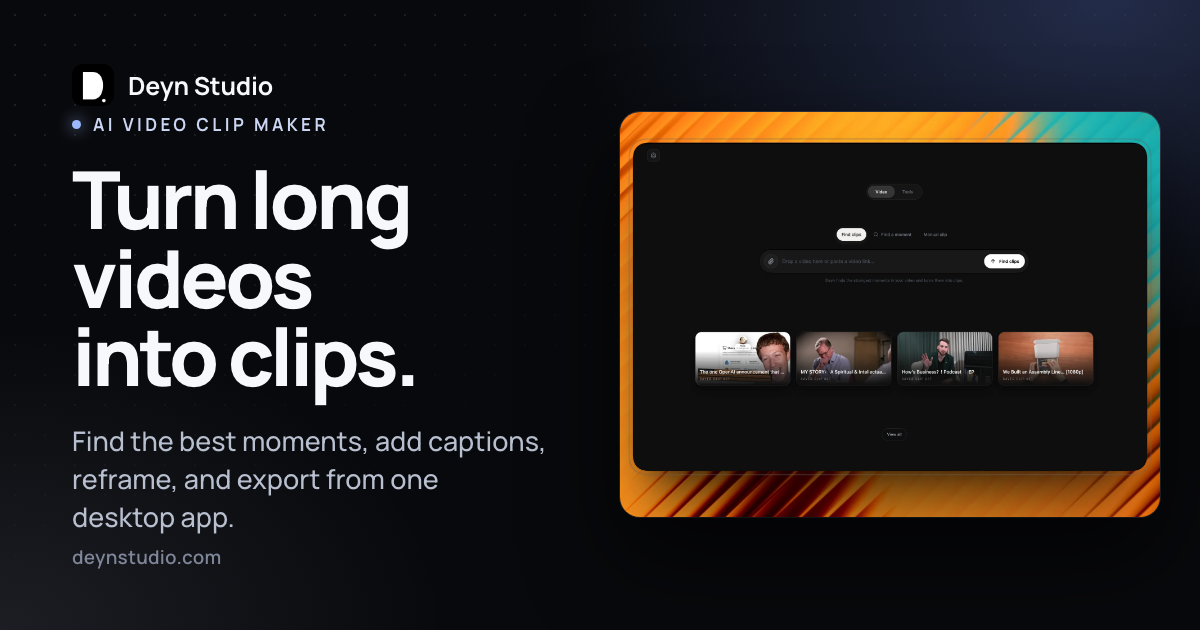
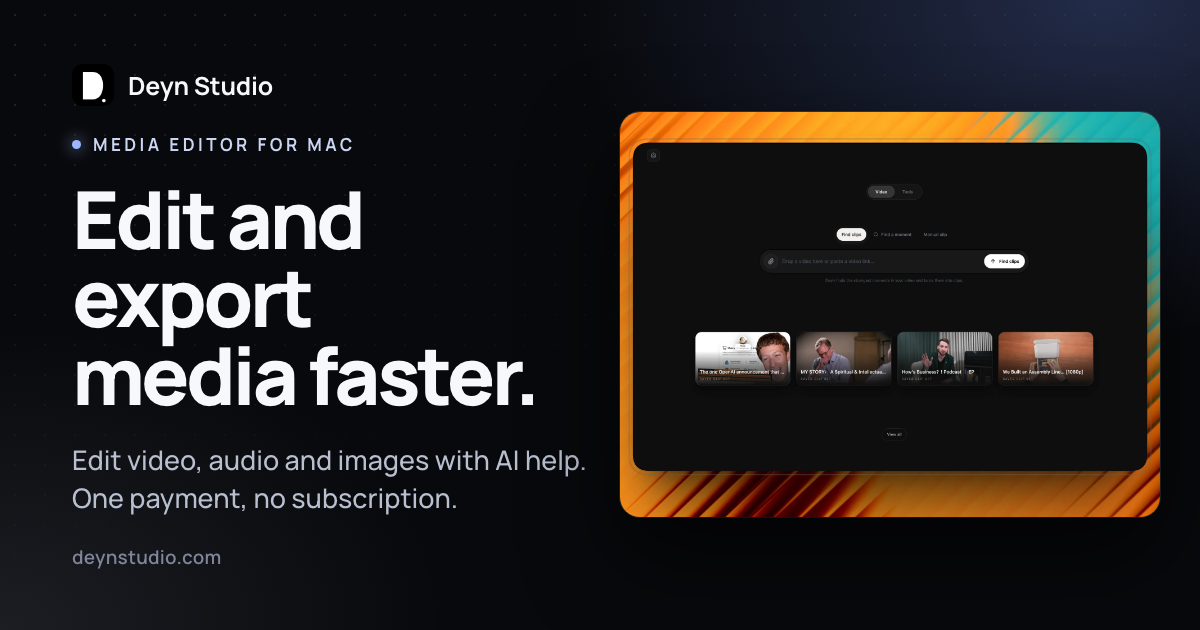
Position landing page as a media editor
Replace clip-maker framing with media editor positioning across the hero,
product story, pricing, WhyUs, FAQ, page metadata, structured data and the
default social card. Copy is shorter and leads with the outcome.

Changed region(s): [[0.0617, 0.2714, 0.4317, 0.6635], [0.0617, 0.6937, 0.4933, 0.8444], [0.0617, 0.181, 0.3083, 0.2413]]

diff --git a/app/(frontend)/page.js b/app/(frontend)/page.js
@@ -14,8 +14,8 @@ import { LIFETIME_LICENSE_PRICE_EUR, LIFETIME_LICENSE_PRICE_LABEL } from '@/lib/
 import { getDownloadUrls } from '@/lib/downloads'
 
 export const metadata = createPageMetadata({
-  title: 'AI Video Clip Maker for Desktop',
-  description: `Turn long videos into clips with Deyn Studio. Find the best moments, add captions, reframe, and export from one desktop app. ${LIFETIME_LICENSE_PRICE_LABEL} once, no subscription.`,
+  title: 'Media Editor for Mac',
+  description: `Edit, caption, convert and export video, audio and images in one Mac app. AI finds the best moments. ${LIFETIME_LICENSE_PRICE_LABEL} once, no subscription.`,
   path: '/',
   absoluteTitle: true
 })
@@ -36,7 +36,7 @@ function MarketingPage({ downloadUrls, isSignedIn }) {
             image: new URL(defaultSocialImage.url, siteOrigin).toString(),
             applicationCategory: 'MultimediaApplication',
             operatingSystem: 'macOS',
-            description: 'A desktop app for finding moments in long videos, editing captions and framing, and exporting shareable clips.',
+            description: 'A desktop media editor for video, audio and images, with AI for captions, clip suggestions and conversions.',
             creator: { '@id': `${siteOrigin}/#organization` },
             offers: {
               '@type': 'Offer',
@@ -80,9 +80,9 @@ function MarketingPage({ downloadUrls, isSignedIn }) {
               <s aria-label="Regular price €69" className="text-[24px] font-medium leading-none tracking-[-.04em] text-[#b0a0a1] decoration-white decoration-[0.5px] max-[600px]:text-[21px]">€69</s>
               <span className="rounded-full bg-[#8e9b7a]/[0.14] px-2.5 py-1 text-[12px] font-semibold tracking-[.01em] text-[#c9d5b8]">58% off</span>
             </div>
-            <p className="mx-auto mb-0 mt-3 max-w-[400px] text-balance text-[14px] leading-[1.6] text-[#c1c3cc]">Find moments, edit captions, and export from one desktop app.</p>
+            <p className="mx-auto mb-0 mt-3 max-w-[400px] text-balance text-[14px] leading-[1.6] text-[#c1c3cc]">Edit, caption, convert and export media from one desktop app.</p>
             <ul className="mx-auto mb-0 mt-6 grid w-fit list-none gap-3 p-0 text-left text-[14px] text-[#ececf0] max-[600px]:gap-2.5 max-[600px]:text-[13px]">
-              {['Find and edit clips from long videos', 'Caption and reframe each clip', 'Spot Assistant: download, compress, convert and caption from any app', 'Transcribe on your device', 'Future desktop updates included'].map((benefit) => <li className="flex items-center gap-3" key={benefit}><span className="text-[15px] text-[#c6c9d2]" aria-hidden="true">✓</span>{benefit}</li>)}
+              {['Edit video with captions, framing and export', 'Convert and compress video, audio and images', 'Spot Assistant: download, compress, convert and caption from any app', 'Transcribe on your device', 'Future desktop updates included'].map((benefit) => <li className="flex items-center gap-3" key={benefit}><span className="text-[15px] text-[#c6c9d2]" aria-hidden="true">✓</span>{benefit}</li>)}
             </ul>
             {/* DECISION: the "limited AI trial" disclosure moved out of this card into the FAQ ("What does the AI trial include?"). Put it back here if you want it next to the buy button. */}
             <p className="mx-auto mb-0 mt-5 max-w-[440px] text-[12px] leading-[1.6] text-[#aaa9a3]">No subscription. Pay for AI only when you use it, with your own OpenRouter key. Local transcription is always free.</p>

diff --git a/app/(frontend)/components/HeroSpiral.js b/app/(frontend)/components/HeroSpiral.js
@@ -25,7 +25,7 @@ const DEMO_VIDEO_SRC = `${DEMO_VIDEO_ORIGIN}/embed/7rs6y-qcOlA?enablejsapi=1&aut
 const demoVideoCommand = (func) => JSON.stringify({ event: 'command', func, args: '' })
 
 const uniqueCardAssets = [
-  { src: '/card-media/se-15.webp', type: 'image', label: 'Clip video' },
+  { src: '/card-media/se-15.webp', type: 'image', label: 'Edit video' },
   { src: '/card-media/se-2.webp', type: 'image', label: 'Convert image' },
   { src: '/card-media/se-16.mp4', poster: '/card-media/se-16-poster.webp', type: 'video', label: 'Compress video' },
   { src: '/card-media/se-3.webp', type: 'image', label: 'Compress image' },
@@ -94,7 +94,7 @@ const CARD_FADE_END = 0.68
 // One headline, on purpose: the first of the old rotation was the only one that said something specific.
 // Add more lines here and the rotation starts again by itself.
 const heroHeadlines = [
-  'Stop scrubbing. Find your next clip.',
+  'Edit and export media faster.',
 ]
 
 const publishHeroIslandState = (active) => {
@@ -1060,7 +1060,7 @@ export function HeroSpiral({ downloadUrls }) {
         <div className={styles.vignette} aria-hidden="true" />
         <div ref={lowerMaskRef} className={styles.lowerMask} aria-hidden="true" />
         <div ref={scrollPromptRef} className={styles.scrollPrompt}>
-          <p className={styles.downloadEyebrow}>A video clip maker you pay for once.</p>
+          <p className={styles.downloadEyebrow}>A media editor you pay for once.</p>
           <h1 className={styles.headingContainer}>
             <span className={styles.downloadHeading}>
               {previousHeadlineIndex !== null && (
@@ -1096,10 +1096,10 @@ export function HeroSpiral({ downloadUrls }) {
               </span>
             </span>
           </h1>
-          <p className={styles.mobileDescription}>Deyn finds the moments worth posting, captions them, and frames them for vertical.</p>
+          <p className={styles.mobileDescription}>Edit video, add captions, reframe for vertical, and let AI do the first pass.</p>
           <DownloadOptionsButton intelUrl={downloadUrls.intel} siliconUrl={downloadUrls.silicon} className={styles.downloadButton}>
             <MacIcon />
-            Download
+            Get Deyn Studio
           </DownloadOptionsButton>
           <p className={styles.mobilePlatforms}>One-time, no subscription. For macOS.</p>
           <p className={styles.keepScrolling}>See how it works <span aria-hidden="true">↓</span></p>
@@ -1124,8 +1124,8 @@ export function HeroSpiral({ downloadUrls }) {
           <div className={`${styles.videoContent} ${isVideoPlaying ? styles.videoContentPlaying : ''}`}>
             <div ref={videoPromptRef} className={styles.videoHeading}>
               <p>Deyn Studio in action</p>
-              <h2>Watch Deyn turn a long video<br className={styles.desktopBreak} /> into clips ready to share.</h2>
-              <p className={styles.videoDescription}>See Deyn find moments, add captions, and frame clips for social.</p>
+              <h2>Watch a file go<br className={styles.desktopBreak} /> from import to export.</h2>
+              <p className={styles.videoDescription}>Edit the transcript, add captions, frame for vertical, and export without switching apps.</p>
             </div>
             <div ref={playPromptRef} className={styles.playPrompt}>
               <button

diff --git a/app/(frontend)/layout.js b/app/(frontend)/layout.js
@@ -27,10 +27,10 @@ export const metadata = {
   },
   manifest: '/favicon/site.webmanifest',
   title: {
-    default: 'AI Video Clip Maker for Desktop | Deyn Studio',
+    default: 'Media Editor for Mac | Deyn Studio',
     template: '%s | Deyn Studio'
   },
-  description: 'Turn long videos into shareable clips with Deyn Studio. Find standout moments with AI, then add captions, reframe, and export from one desktop app.',
+  description: 'Edit video, audio and images in one Mac app. Add captions, convert and compress files, and let AI find the best moments. Pay once, no subscription.',
   creator: 'Deyn Studio',
   publisher: 'Deyn Studio',
   openGraph: {
@@ -38,14 +38,14 @@ export const metadata = {
     url: '/',
     siteName: 'Deyn Studio',
     locale: 'en_US',
-    title: 'AI Video Clip Maker for Desktop | Deyn Studio',
-    description: 'Turn long videos into shareable clips with Deyn Studio. Find standout moments with AI, then add captions, reframe, and export from one desktop app.',
+    title: 'Media Editor for Mac | Deyn Studio',
+    description: 'Edit video, audio and images in one Mac app. Add captions, convert and compress files, and let AI find the best moments. Pay once, no subscription.',
     images: [defaultSocialImage]
   },
   twitter: {
     card: 'summary_large_image',
-    title: 'AI Video Clip Maker for Desktop | Deyn Studio',
-    description: 'Turn long videos into shareable clips with Deyn Studio. Find standout moments with AI, then add captions, reframe, and export from one desktop app.',
+    title: 'Media Editor for Mac | Deyn Studio',
+    description: 'Edit video, audio and images in one Mac app. Add captions, convert and compress files, and let AI find the best moments. Pay once, no subscription.',
     images: [defaultSocialImage.url]
   },
   robots: {
@@ -103,7 +103,7 @@ export default function RootLayout({ children }) {
                   '@id': `${siteOrigin}/#website`,
                   name: 'Deyn Studio',
                   url: siteOrigin,
-                  description: 'Desktop software for finding moments in long videos, editing captions and framing, and exporting clips.',
+                  description: 'Desktop media editor for video, audio and images, with AI for captions, clip suggestions and conversions.',
                   publisher: { '@id': `${siteOrigin}/#organization` },
                   inLanguage: 'en'
                 }

diff --git a/app/(frontend)/components/ProductStory.js b/app/(frontend)/components/ProductStory.js
@@ -7,20 +7,20 @@ import styles from './ProductStory.module.css'
 const stories = [
   {
     number: '01',
-    title: 'Drop in a long video',
-    description: 'Import a file or paste a supported public link. Let Deyn suggest clips, search for a moment, or pick the cut yourself.',
+    title: 'Bring in your media',
+    description: 'Import a video, audio file or image, or paste a supported public link to start editing.',
 
     image: '/app-shots/home-p.webp',
     imageBackground: '13 13 13',
-    alt: 'Deyn Studio home screen with a video ready and saved clip sets'
+    alt: 'Deyn Studio home screen with a video ready to edit'
   },
   {
     number: '02',
-    title: 'Skip the scrubbing',
-    description: 'AI reads the transcript and suggests clips with titles and timing. Keep the ones you like, drop the rest.',
+    title: 'Let AI do the first pass',
+    description: 'AI reads the transcript, suggests the moments worth keeping, and adds titles and timing. Keep what you like, drop the rest.',
     image: '/app-shots/clips-p.webp',
     imageBackground: '43 34 117',
-    alt: 'A grid of clips generated from a video in Deyn Studio'
+    alt: 'AI-suggested clips from a video in Deyn Studio'
   },
   {
     number: '03',
@@ -185,7 +185,7 @@ export function ProductStory() {
     >
       <div className="relative z-10 mx-auto w-full max-w-[1420px]">
         <h2 id="product-story-heading" className="relative z-30 mx-auto section-title-gap max-w-[640px] text-balance text-center font-serif section-title text-[#f0efe9]">
-          Turn long videos into clips ready to post
+          From raw footage to a finished file
         </h2>
 
 

diff --git a/app/(frontend)/components/FAQSection.js b/app/(frontend)/components/FAQSection.js
@@ -10,12 +10,12 @@ const FAQ_ITEMS = [
   {
     category: 'Product',
     question: 'What is Deyn Studio?',
-    answer: 'Deyn Studio is a desktop app for turning long videos into clips. Find moments, edit captions and framing, then export. It also includes Spot Assistant for quick edits from any app, plus tools for audio, images, and documents.'
+    answer: 'Deyn Studio is a desktop media editor for Mac. Edit video with captions and framing, convert and compress video, audio, and images, and let AI suggest clips from long videos. Spot Assistant runs quick edits from any app.'
   },
   {
     category: 'Pricing & License',
     question: 'Is it really a one-time payment?',
-    answer: `Yes. The ${LIFETIME_LICENSE_PRICE_LABEL} launch license is paid once and includes lifetime access, future desktop updates, and use on up to two devices. There is no subscription and no clip allowance. The only cost that can recur is optional: cloud AI, which you pay your own provider for.`
+    answer: `Yes. The ${LIFETIME_LICENSE_PRICE_LABEL} launch license is paid once and includes lifetime access, future desktop updates, and use on up to two devices. There is no subscription. The only cost that can recur is optional: cloud AI, which you pay your own provider for.`
   },
   {
     category: 'Pricing & License',

diff --git a/app/(frontend)/components/WhyUs.js b/app/(frontend)/components/WhyUs.js
@@ -8,7 +8,7 @@ const reasons = [
   {
     label: 'Your budget',
     title: 'Pay once. Pay for AI only when you use it.',
-    description: 'Deyn Studio is a one-time purchase, not another monthly plan with a clip allowance. Cloud AI runs through your own OpenRouter key after the included trial, so you pay only for the work you run. Local transcription costs nothing.'
+    description: 'Deyn Studio is a one-time purchase, not another monthly plan with credits. Cloud AI runs through your own OpenRouter key after the included trial, so you pay only for the work you run. Local transcription costs nothing.'
   },
   {
     label: 'Your files',

diff --git a/lib/seo.js b/lib/seo.js
@@ -26,7 +26,7 @@ export const siteUrl = new URL(siteOrigin)
 // Share images are 1200x630 PNGs in public/og, rendered by scripts/generate-og-images.mjs.
 export const socialImage = (name, alt) => ({ url: `/og/${name}.png`, width: 1200, height: 630, alt })
 
-export const defaultSocialImage = socialImage('default', 'Deyn Studio desktop app finding video clips')
+export const defaultSocialImage = socialImage('default', 'Deyn Studio desktop media editor')
 
 export function createPageMetadata({
   title,
